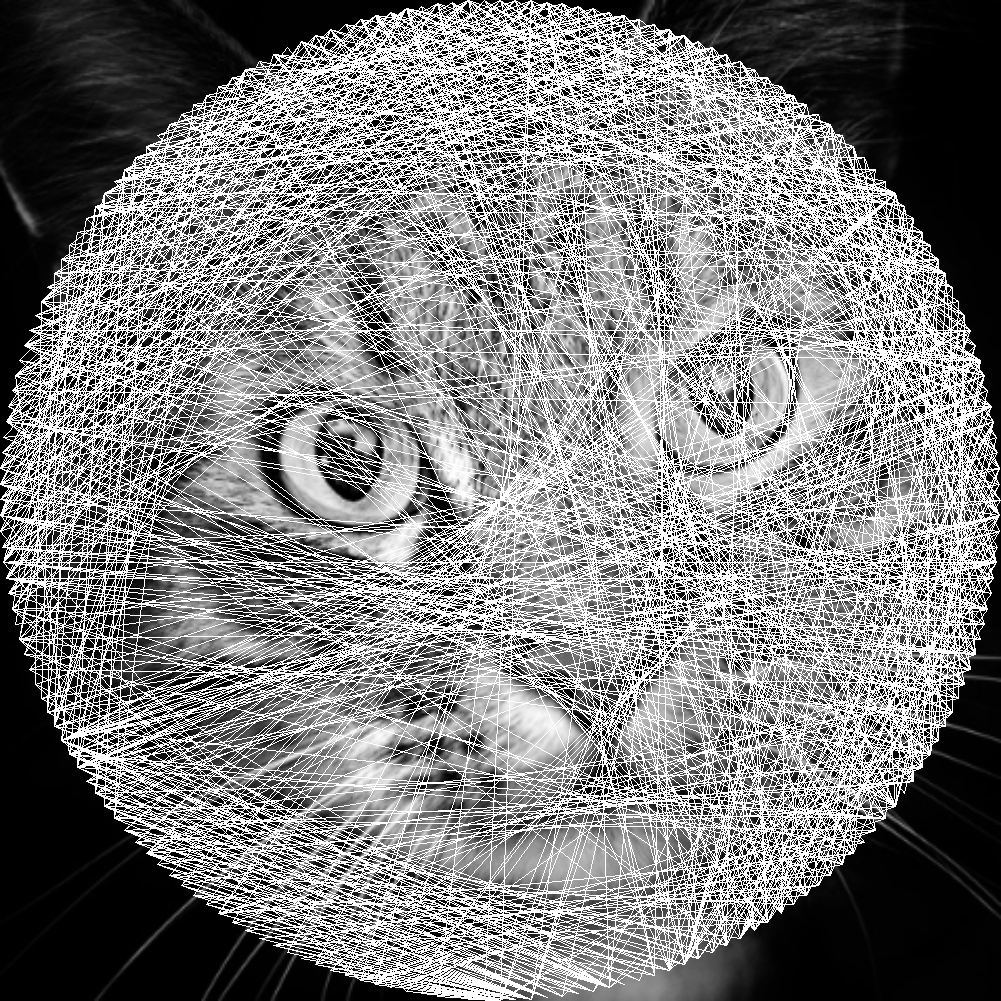
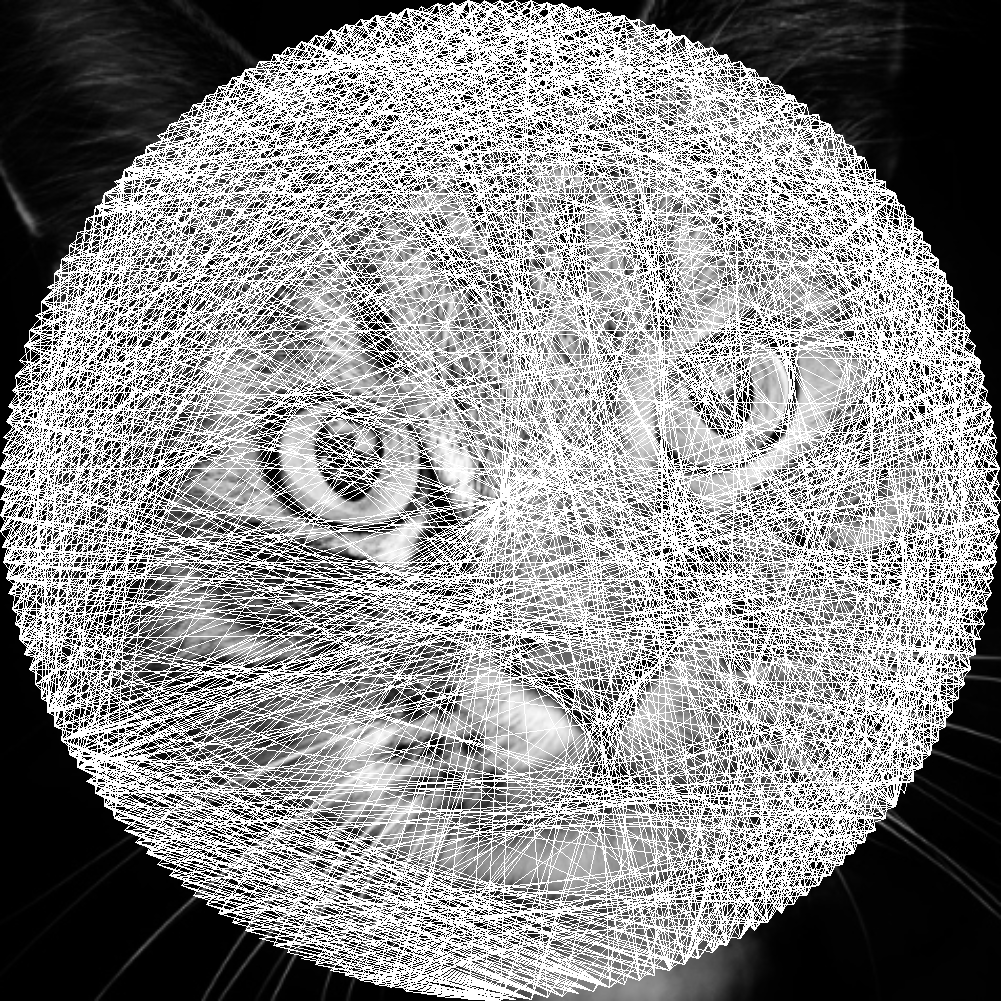
can't get mask to update pixel vals

diff --git a/string_line.py b/string_line.py
@@ -44,20 +44,24 @@ def check_tooclose(coords, line, adj):
     if abs(line- adj) < 25:
         return True
 
-def update_image(breList, kitty, imgResult):
-    for x in breList:
-        y, z = x
-        kitty[y, z] = 255
-        imgResult[y, z] = 20
-    # cv2.namedWindow('image', cv2.WINDOW_NORMAL) 
-    # cv2.resizeWindow('image', 1001, 1001)  
-    # cv2.imshow('image', imgResult)
-    # cv2.waitKey(1)  
+def update_image(bestBre, pinx, piny, kitty):
+    mask = np.zeros(kitty.shape[:2], dtype = "uint8")
+    cv2.line(mask, pinx, piny, 255, 1)
+    #cv2.line(imgResult, pinx, piny, 0, 1)
+    imgMasked = cv2.bitwise_or(kitty, mask)
+    kitty = np.add(imgMasked, mask)
+
+    cv2.namedWindow('image', cv2.WINDOW_NORMAL) 
+    cv2.resizeWindow('image', 1001, 1001)  
+    cv2.imshow('image', kitty)
+    cv2.waitKey(1) 
+
+    return kitty
 
 
 start_time = time.time()
-imgRadius = 500
-image = cv2.imread('johnm.PNG', cv2.IMREAD_GRAYSCALE)
+imgRadius = 500 
+image = cv2.imread('kitty.PNG', cv2.IMREAD_GRAYSCALE)
 
 
 
@@ -85,14 +89,14 @@ cv2.imwrite('./resized.png', kitty)
 
 height, width = kitty.shape[:2]
 imgResult = 255 * np.ones((height, width))
-nLines = 1000
+nLines = 500
 nPins = 200
 oldPin = 0
 
 x = int(width/2)
 y = int(height/2)
 
-coords = make_circle(center=(x,y),r=imgRadius, n=nPins)
+coords = make_circle(center=(x,y),r=500)
 
 # if you want less local lines
 # for x in coords:
@@ -103,7 +107,7 @@ coords = make_circle(center=(x,y),r=imgRadius, n=nPins)
 line_list = []
 
 for line in range(nLines):
-    bestLine = float("inf")
+    bestLine = 9999999999
     oldCoord = coords[oldPin]
 
     for index in range(1, nPins):
@@ -112,7 +116,7 @@ for line in range(nLines):
         coord = coords[pin]
         if check_tooclose(coords, oldPin, pin):
             continue
-        bre = list(bresenham(oldCoord[0], oldCoord[1], coord[0], coord[1]))
+        bre = list(bresenham(oldCoord[0], oldCoord[1], coord[0], coord[1]))  
         pixels = sum(kitty[x[0], x[1]] for x in bre)
         lineSum = int(pixels / len(bre)) 
         if lineSum < bestLine:
@@ -120,12 +124,13 @@ for line in range(nLines):
             bestPin = pin
             bestBre = bre
 
-    line_list.append((oldPin, bestPin))
-    update_image(bestBre, kitty, imgResult)
+    line_list.append((oldPin, bestPin))    
+    kitty = update_image(bestBre, tuple(coords[oldPin]), tuple(coords[bestPin]), kitty)
+    
     oldPin = bestPin
 
-cv2.imwrite('john2.png', kitty)
-cv2.imwrite('johnresults1.png', imgResult)
+cv2.imwrite('reg500.png', kitty)
+cv2.imwrite('reg500results.png', imgResult)
 # cv2.imshow('image', imgResult)
 # cv2.waitKey(0)
 # cv2.destroyAllWindows()

diff --git a/string_art.py b/string_art.py
@@ -46,21 +46,15 @@ def check_tooclose(coords, line, adj):
 
 def update_image(breList, kitty, imgResult):
     for x in breList:
-        y, z = x
-        kitty[y, z] = 255
-        imgResult[y, z] = 20
-    # cv2.namedWindow('image', cv2.WINDOW_NORMAL) 
-    # cv2.resizeWindow('image', 1001, 1001)  
+        kitty[x[0], x[1]] = 255
+        imgResult[x[0], x[1]] = 0
     # cv2.imshow('image', imgResult)
-    # cv2.waitKey(1)  
-
+    # cv2.waitKey(1)
+    # cv2.destroyAllWindows()
 
 start_time = time.time()
-imgRadius = 500
-image = cv2.imread('johnm.PNG', cv2.IMREAD_GRAYSCALE)
-
-
-
+imgRadius = 500 
+image = cv2.imread('kitty.PNG', cv2.IMREAD_GRAYSCALE)
 
 height, width = image.shape[0:2]
 minEdge= min(height, width)
@@ -92,7 +86,7 @@ oldPin = 0
 x = int(width/2)
 y = int(height/2)
 
-coords = make_circle(center=(x,y),r=imgRadius, n=nPins)
+coords = make_circle(center=(x,y),r=500)
 
 # if you want less local lines
 # for x in coords:
@@ -103,7 +97,7 @@ coords = make_circle(center=(x,y),r=imgRadius, n=nPins)
 line_list = []
 
 for line in range(nLines):
-    bestLine = float("inf")
+    bestLine = 9999999999
     oldCoord = coords[oldPin]
 
     for index in range(1, nPins):
@@ -112,21 +106,18 @@ for line in range(nLines):
         coord = coords[pin]
         if check_tooclose(coords, oldPin, pin):
             continue
-        bre = list(bresenham(oldCoord[0], oldCoord[1], coord[0], coord[1]))
-        pixels = sum(kitty[x[0], x[1]] for x in bre)
-        lineSum = int(pixels / len(bre)) 
+        a = np.asarray(list(bresenham(oldCoord[0], oldCoord[1], coord[0], coord[1])))
+        pixels = sum(kitty[x[0], x[1]] for x in a)
+        lineSum = int(pixels / len(a)) 
         if lineSum < bestLine:
             bestLine = lineSum
             bestPin = pin
-            bestBre = bre
+            bestBre = a
 
     line_list.append((oldPin, bestPin))
     update_image(bestBre, kitty, imgResult)
     oldPin = bestPin
 
-cv2.imwrite('john2.png', kitty)
-cv2.imwrite('johnresults1.png', imgResult)
-# cv2.imshow('image', imgResult)
-# cv2.waitKey(0)
-# cv2.destroyAllWindows()
+cv2.imwrite('nump.png', kitty)
+cv2.imwrite('numpresults.png', imgResult)
 print time.time() - start_time, "seconds"

diff --git a/string_thread.py b/string_thread.py
@@ -90,7 +90,7 @@ cv2.imwrite('./resized.png', kitty)
 
 height, width = kitty.shape[:2]
 imgResult = 255 * np.ones((height, width))
-nLines = 800
+nLines = 1000
 nPins = 200
 oldPin = 0
 height, width = kitty.shape[0:2]
